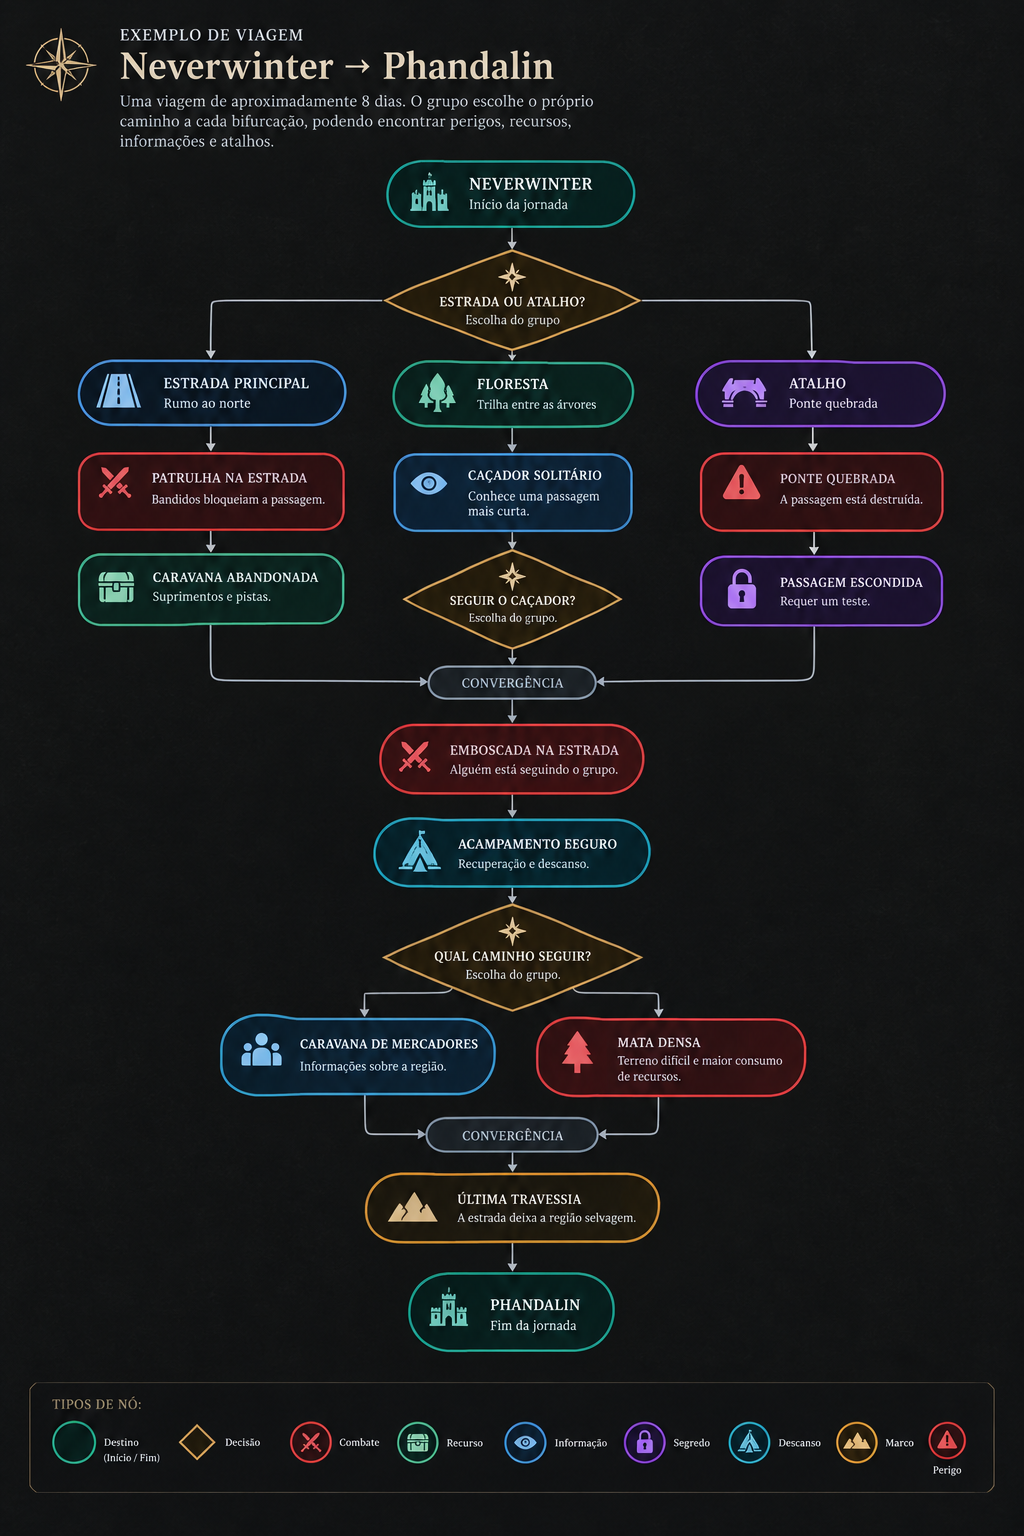
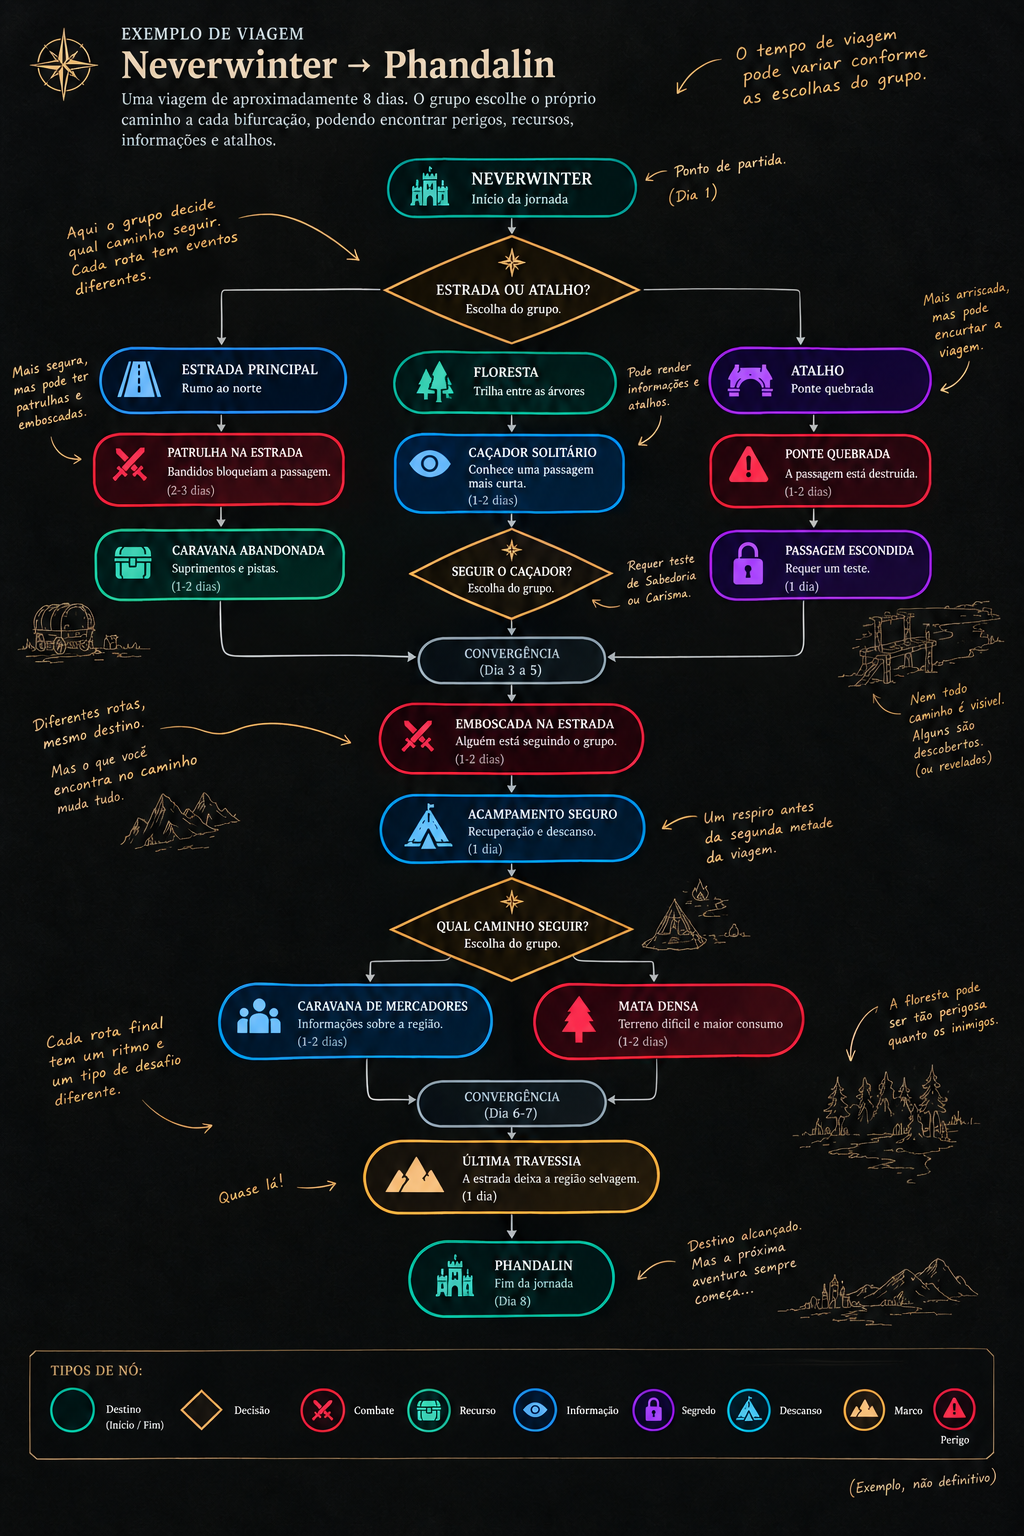
Atualiza a imagem de exemplo do sistema de viagem e remove comentários desnecessários no HTML.

diff --git a/css/componentes.css b/css/componentes.css
@@ -93,76 +93,76 @@ a.card:hover { transform: translateY(-3px); border-color: var(--cor-destaque); }
 .card-imagem-contida { object-fit: contain; padding: 1rem; background: var(--cor-fundo-secundario); }
 .card-corpo small { margin-top: auto; padding-top: .5rem; }
 
-                        /* Exemplo de estilo — migrar para components.css depois */
-                        .node-grid {
-                            display: grid;
-                            grid-template-columns: repeat(auto-fit, minmax(260px, 1fr));
-                            gap: 16px;
-                            margin: 20px 0;
-                        }
+/* Exemplo de estilo — migrar para components.css depois */
+.node-grid {
+    display: grid;
+    grid-template-columns: repeat(auto-fit, minmax(260px, 1fr));
+    gap: 16px;
+    margin: 20px 0;
+}
 
-                        .node-card {
-                            border-radius: 10px;
-                            padding: 14px 16px;
-                            background: rgba(255, 255, 255, 0.03);
-                            border-left: 5px solid var(--node-color, #888);
-                            box-shadow: 0 2px 6px rgba(0, 0, 0, 0.25);
-                        }
+.node-card {
+    border-radius: 10px;
+    padding: 14px 16px;
+    background: rgba(255, 255, 255, 0.03);
+    border-left: 5px solid var(--node-color, #888);
+    box-shadow: 0 2px 6px rgba(0, 0, 0, 0.25);
+}
 
-                        .node-card .node-title {
-                            display: flex;
-                            align-items: center;
-                            gap: 8px;
-                            font-weight: bold;
-                            color: var(--node-color, #ccc);
-                            margin-bottom: 6px;
-                            font-size: 1.05em;
-                        }
+.node-card .node-title {
+    display: flex;
+    align-items: center;
+    gap: 8px;
+    font-weight: bold;
+    color: var(--node-color, #ccc);
+    margin-bottom: 6px;
+    font-size: 1.05em;
+}
 
-                        .node-card .node-shape {
-                            display: inline-block;
-                            width: 16px;
-                            height: 16px;
-                            background: var(--node-color, #888);
-                            flex-shrink: 0;
-                        }
+.node-card .node-shape {
+    display: inline-block;
+    width: 16px;
+    height: 16px;
+    background: var(--node-color, #888);
+    flex-shrink: 0;
+}
 
-                        .shape-square {
-                            border-radius: 3px;
-                        }
+.shape-square {
+    border-radius: 3px;
+}
 
-                        .shape-circle {
-                            border-radius: 50%;
-                        }
+.shape-circle {
+    border-radius: 50%;
+}
 
-                        .shape-diamond {
-                            transform: rotate(45deg);
-                        }
+.shape-diamond {
+    transform: rotate(45deg);
+}
 
-                        .shape-octagon {
-                            clip-path: polygon(30% 0%, 70% 0%, 100% 30%, 100% 70%, 70% 100%, 30% 100%, 0% 70%, 0% 30%);
-                        }
+.shape-octagon {
+    clip-path: polygon(30% 0%, 70% 0%, 100% 30%, 100% 70%, 70% 100%, 30% 100%, 0% 70%, 0% 30%);
+}
 
-                        .shape-star {
-                            clip-path: polygon(50% 0%, 61% 35%, 98% 35%, 68% 57%, 79% 91%, 50% 70%, 21% 91%, 32% 57%, 2% 35%, 39% 35%);
-                        }
+.shape-star {
+    clip-path: polygon(50% 0%, 61% 35%, 98% 35%, 68% 57%, 79% 91%, 50% 70%, 21% 91%, 32% 57%, 2% 35%, 39% 35%);
+}
 
-                        .shape-triangle {
-                            clip-path: polygon(50% 0%, 0% 100%, 100% 100%);
-                        }
+.shape-triangle {
+    clip-path: polygon(50% 0%, 0% 100%, 100% 100%);
+}
 
-                        .node-card .node-desc {
-                            font-size: 0.92em;
-                            opacity: 0.85;
-                        }
+.node-card .node-desc {
+    font-size: 0.92em;
+    opacity: 0.85;
+}
 
-                        .node-tag {
-                            display: inline-block;
-                            font-size: 0.75em;
-                            padding: 2px 8px;
-                            border-radius: 999px;
-                            background: var(--node-color, #888);
-                            color: #111;
-                            font-weight: bold;
-                            margin-top: 6px;
-                        }
+.node-tag {
+    display: inline-block;
+    font-size: 0.75em;
+    padding: 2px 8px;
+    border-radius: 999px;
+    background: var(--node-color, #888);
+    color: #111;
+    font-weight: bold;
+    margin-top: 6px;
+}

diff --git a/OOTA/ch/sistema_de_viagem.html b/OOTA/ch/sistema_de_viagem.html
@@ -156,8 +156,6 @@
                         </div>
 
                     </div>
-                    <p style="font-size:0.85em; opacity:0.7;">*Tracejado é só indicação textual aqui; no CSS real dá pra
-                        usar <code>border: 2px dashed</code>.</p>
 
                     <hr class="divider-gradient">
 
